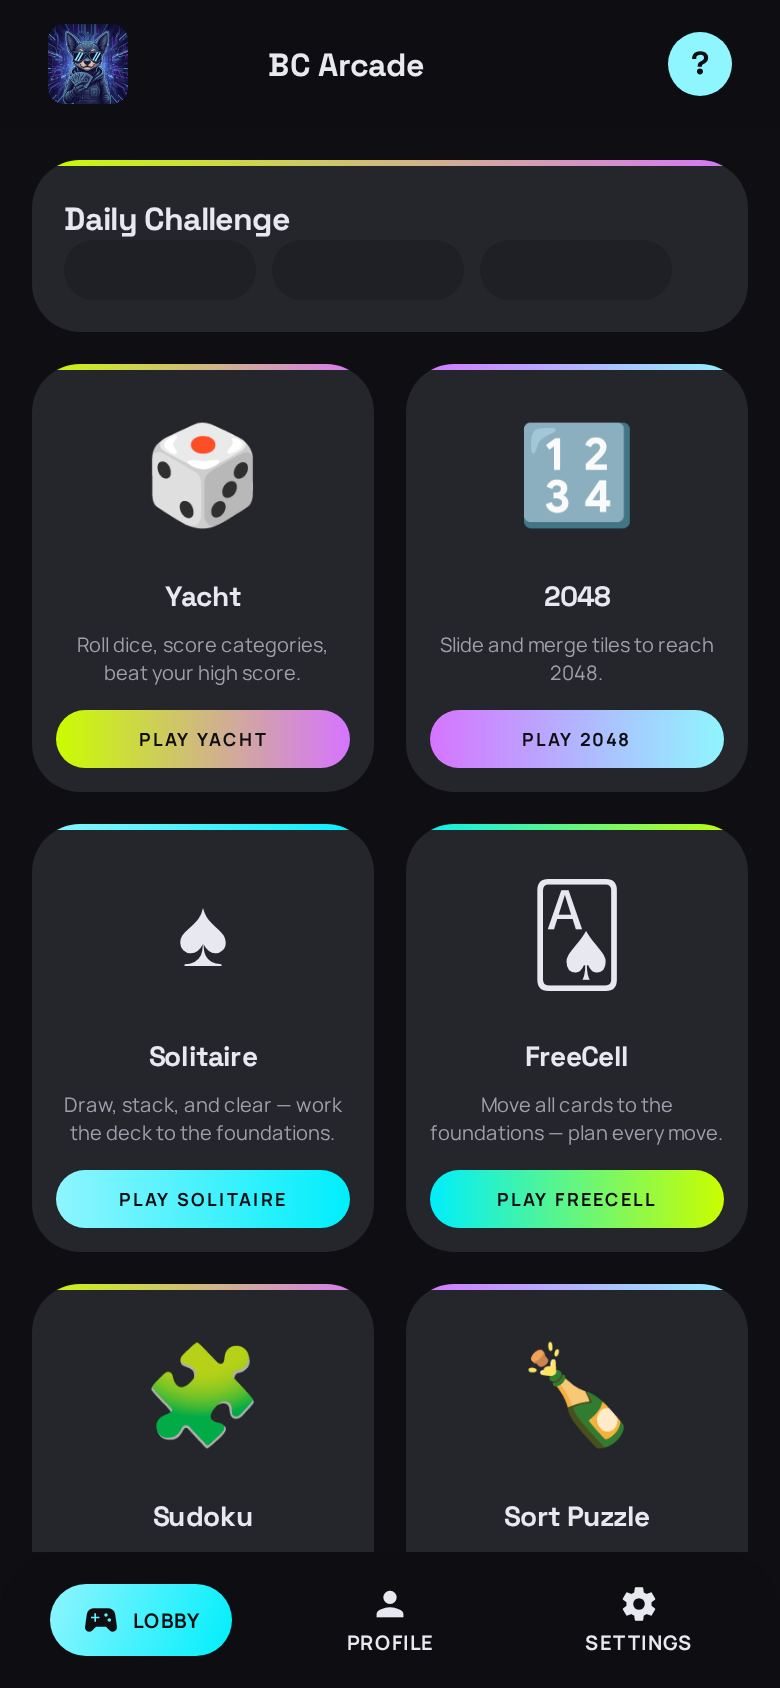
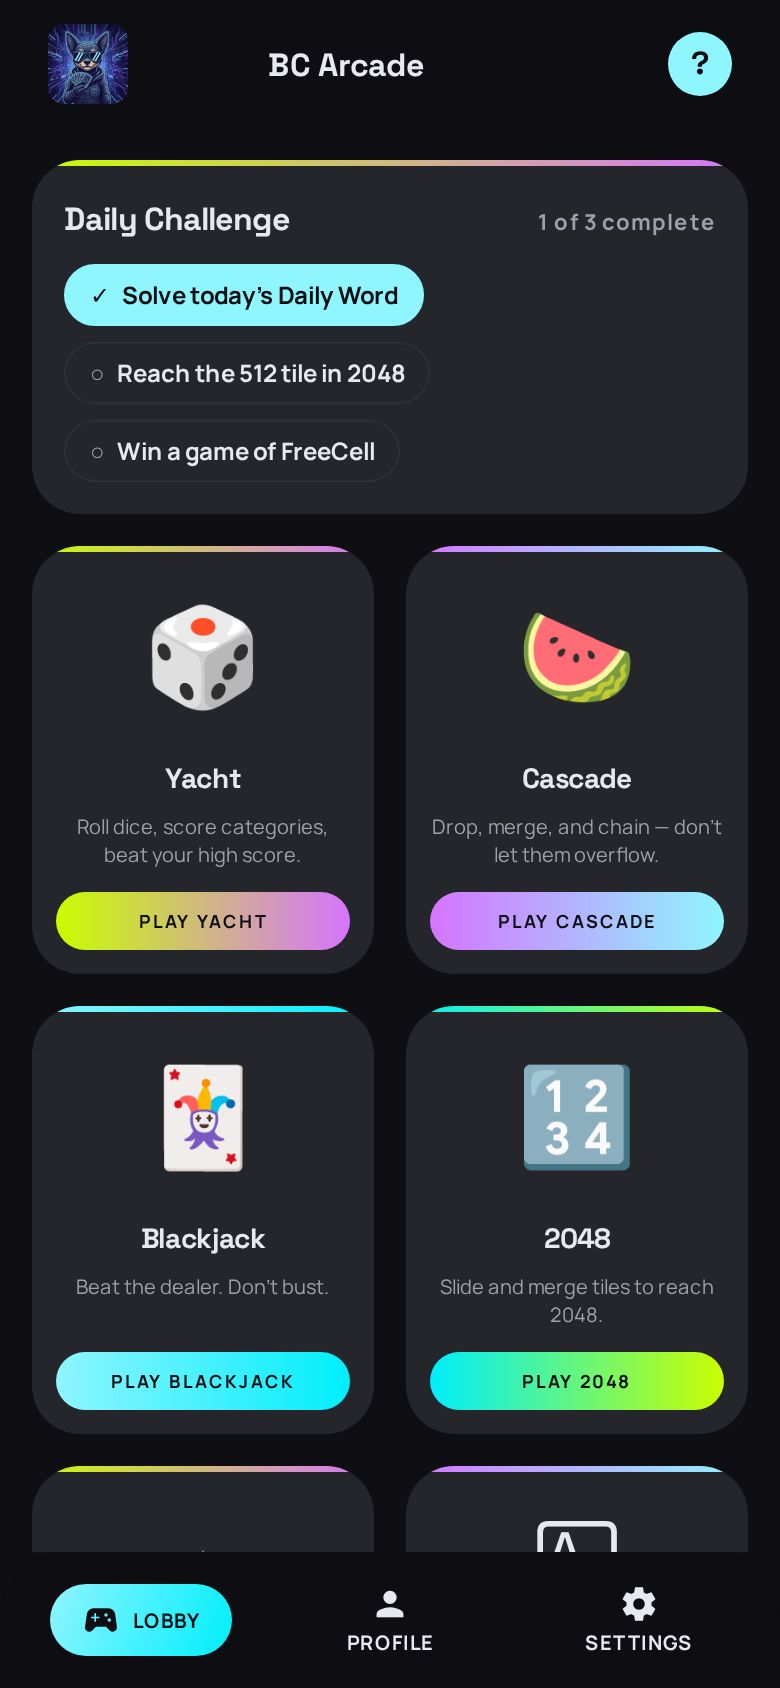
feat(work): lead BC Arcade with the lobby; show Star Swarm and Blackjack
Lobby (with a populated Daily Challenge) moves to the centre frame;
Star Swarm and Blackjack replace Sudoku and Solitaire as richer
examples. Alt text updated in all locales.

Claude-Session: https://claude.ai/code/session_01VDaAPPt8Lq2Lf65dn8tje1

Changed region(s): [[0.0615, 0.154, 0.9538, 0.9242], [0.7077, 0.1232, 0.9231, 0.154]]

diff --git a/src/data/projects.js b/src/data/projects.js
@@ -45,16 +45,16 @@ export const featuredProjects = [
     ],
     images: [
       {
+        src: '/work/bc-arcade/star-swarm.jpg',
+        alt: "Star Swarm mid-wave: the player's ship firing on rows of alien invaders",
+      },
+      {
         src: '/work/bc-arcade/lobby.jpg',
-        alt: 'BC Arcade lobby with game cards for Yacht, 2048, Solitaire and FreeCell',
+        alt: "BC Arcade lobby with today's Daily Challenge and game cards",
       },
       {
-        src: '/work/bc-arcade/sudoku.jpg',
-        alt: 'A Sudoku puzzle in progress in BC Arcade',
-      },
-      {
-        src: '/work/bc-arcade/solitaire.jpg',
-        alt: 'A fresh Solitaire deal in BC Arcade',
+        src: '/work/bc-arcade/blackjack.jpg',
+        alt: 'A Blackjack hand in progress, with the table goal and hit, stand and double-down controls',
       },
     ],
   },
